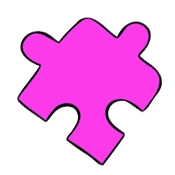
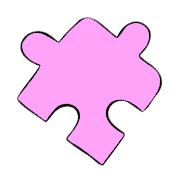
docs: Update Testing section of README.md

diff --git a/docs/README.md b/docs/README.md
@@ -729,6 +729,11 @@ I achieved this by adding a grayscale filter to the images that were confusing t
 
 <br>
 
+In response to the feedback from The Rainbow class, I have changes the pink Colours game flashcard to a lighter shade to make it easier to distinguish from the purple image
+
+<img src="./readme_images/pink_error.png">
+
+<br>
 
 - __Validator Testing__
 
